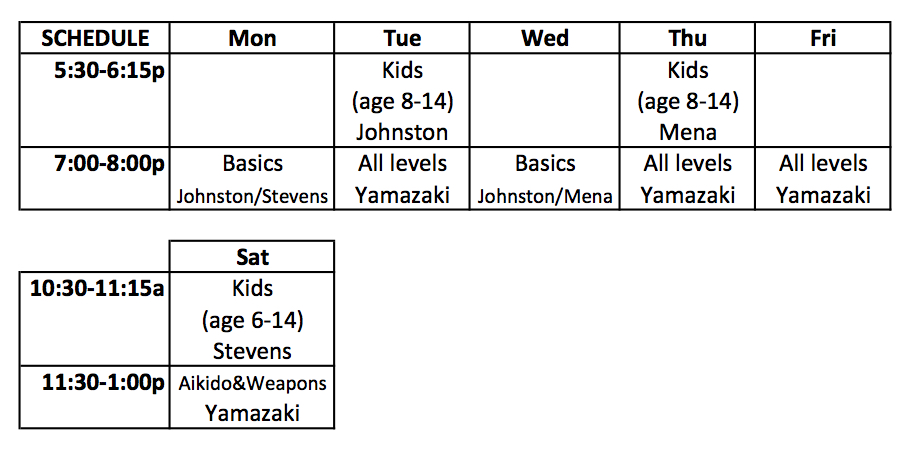
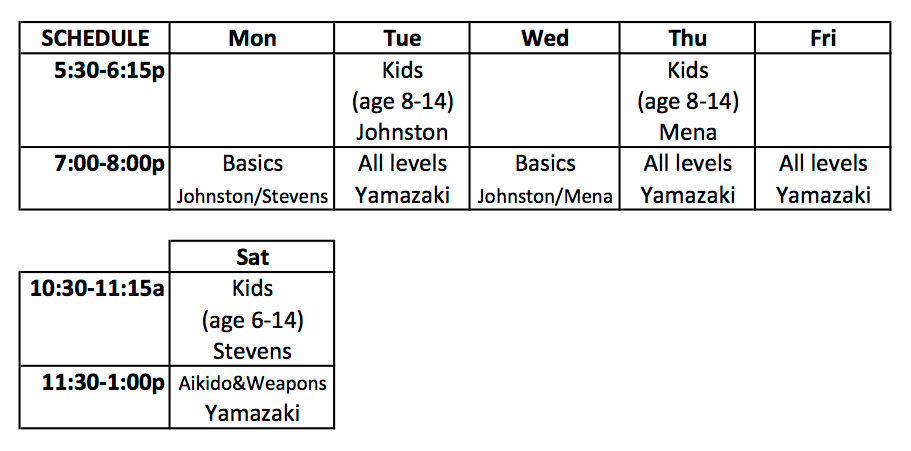
compress images to jpg

diff --git a/src/components/Home.js b/src/components/Home.js
@@ -1,8 +1,8 @@
 import React from 'react';
 import { Grid, Row, Col } from 'react-bootstrap';
-import picture1 from '../assets/o-1.png'
-import picture2 from '../assets/o-2.png'
-import picture3 from '../assets/o-3.png'
+import picture1 from '../assets/o-1.jpg'
+import picture2 from '../assets/o-2.jpg'
+import picture3 from '../assets/o-3.jpg'
 
 // xs should move to new line
 const Home = () => {

diff --git a/src/styles/App.css b/src/styles/App.css
@@ -116,7 +116,7 @@ hr {
 .hero-content {
   position: relative;
   min-height: 895px;  
-  background-image: url(../assets/o.png);
+  background-image: url(../assets/o-0.jpg);
   background-repeat: no-repeat;
   background-position: center center;
   background-size: cover;
